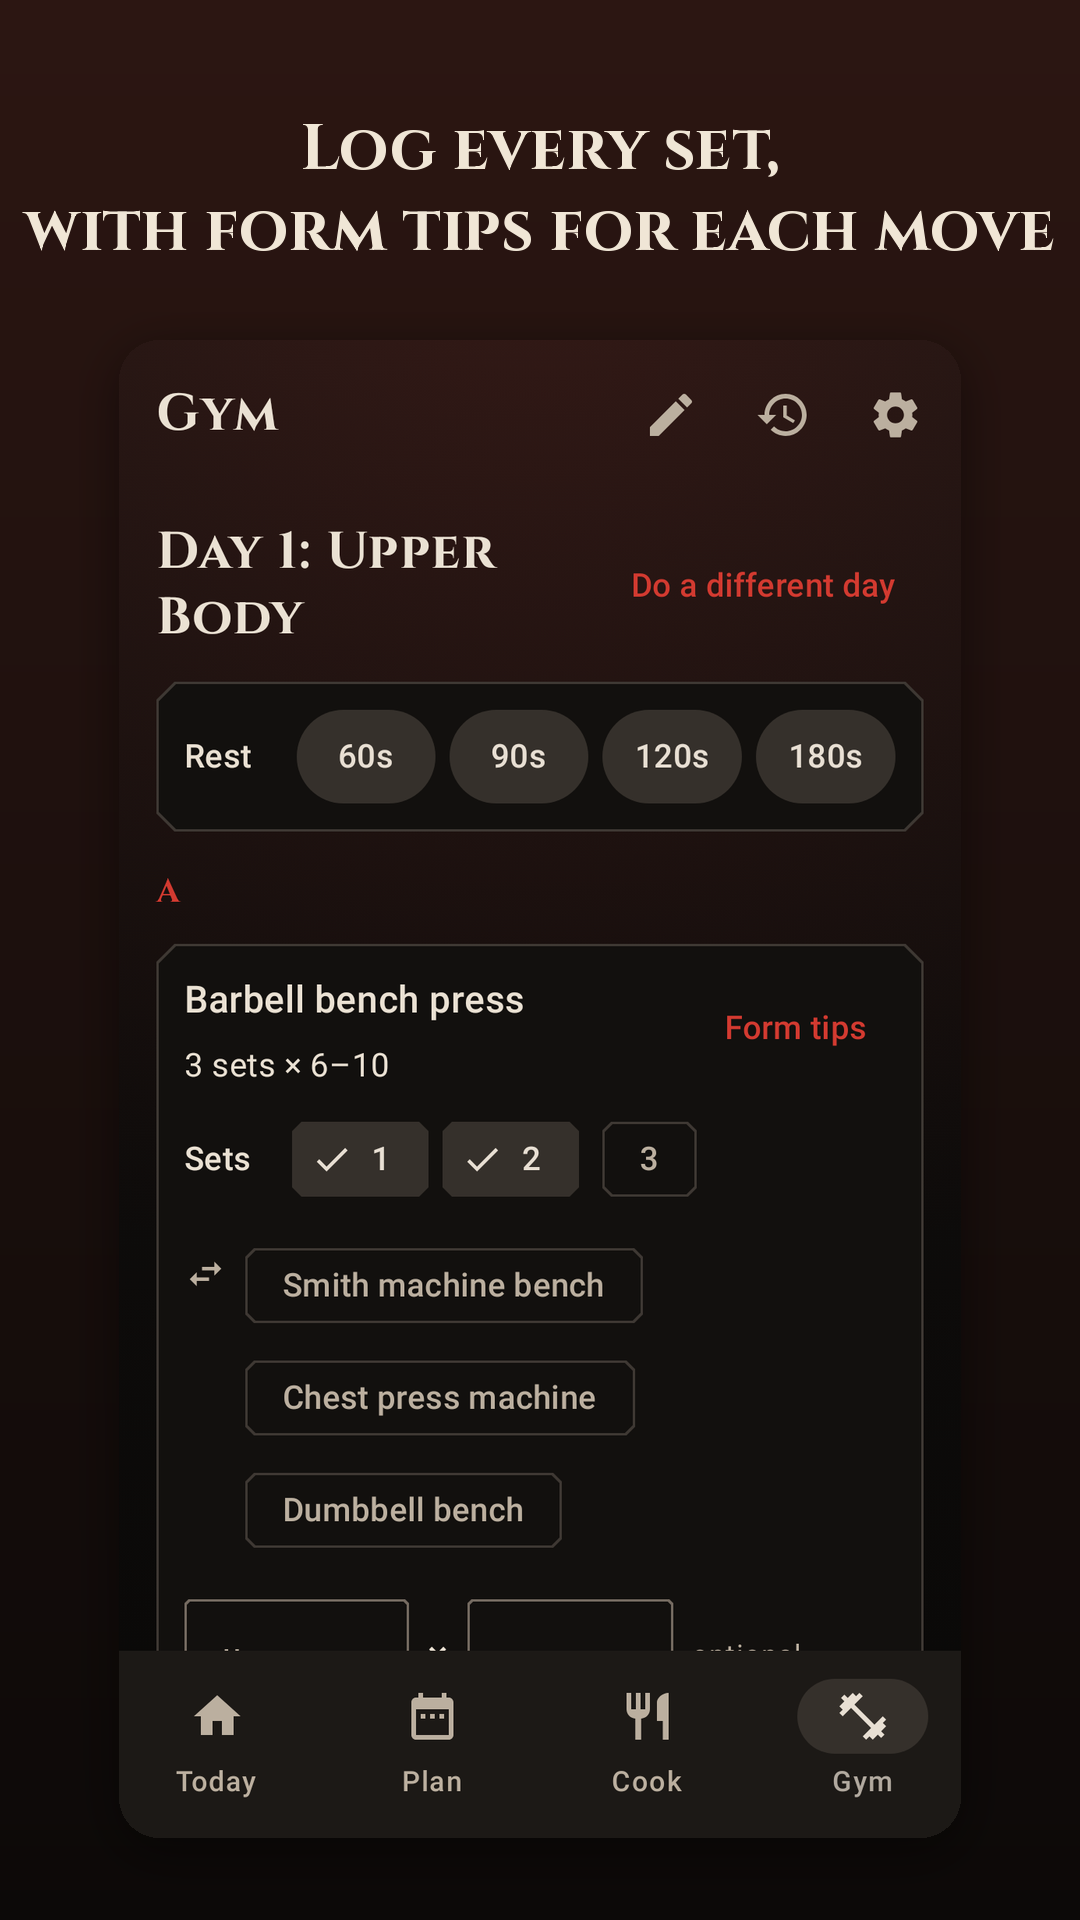
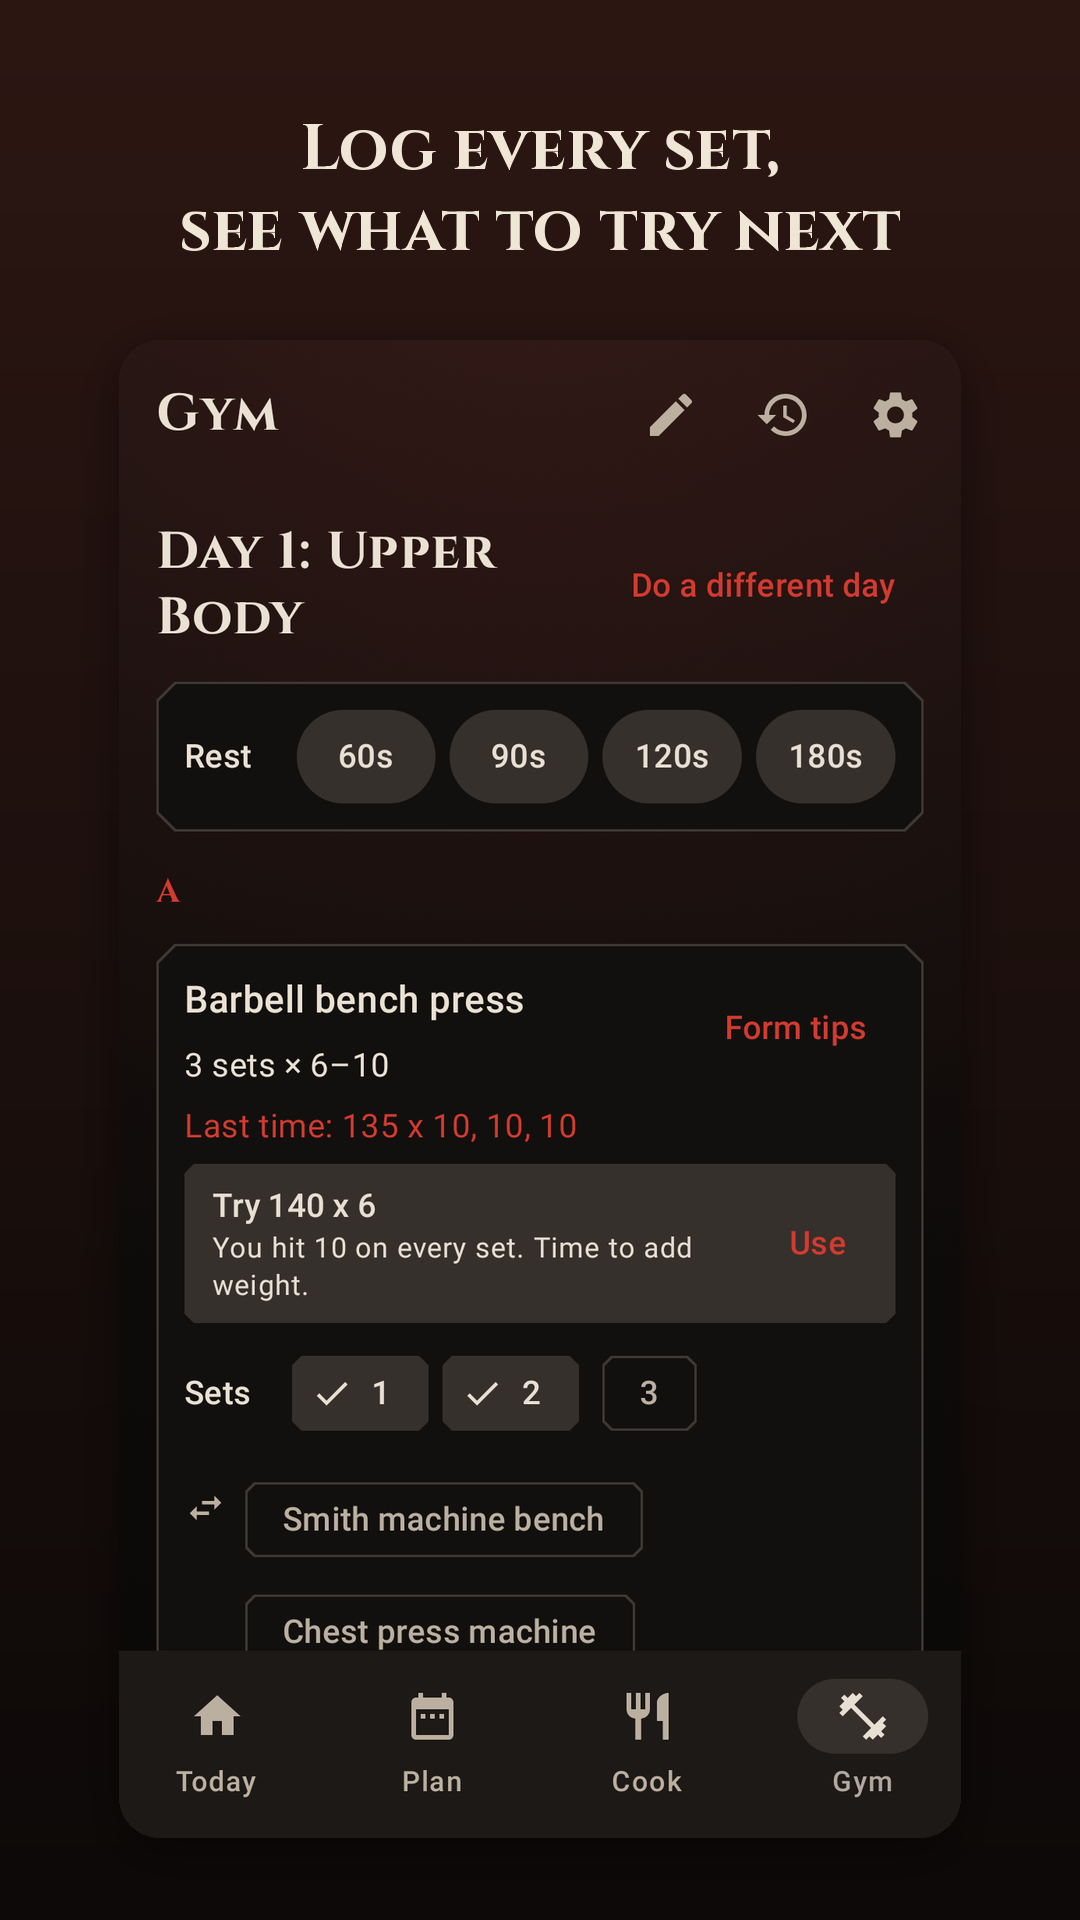
Docs and store kit for the depth features
- README: what version 6 adds, how each part works and what starts switched
  off in the personal edition.
- Play listing description rewritten around the plan that adds up, the cupboard
  loop, cooking timers and gym progress (3,910 of 4,000 characters).
- Listing screenshots regenerated; the gym one shows last time and what to try
  next.
- Store kit table, privacy policy and data safety notes mention what's newly
  stored on the phone (cook ratings, meals marked as eating out, sets).

Claude-Session: https://claude.ai/code/session_01AgEek7SaWWDv3g6qExxaFi

Changed region(s): [[0.1528, 0.5625, 0.8556, 0.875], [0.0306, 0.0938, 0.9778, 0.1562]]

diff --git a/app/src/testStore/java/com/personal/mealgym/ui/StoreListingScreenshots.kt b/app/src/testStore/java/com/personal/mealgym/ui/StoreListingScreenshots.kt
@@ -14,9 +14,13 @@ import com.github.takahirom.roborazzi.captureRoboImage
 import com.personal.mealgym.MainActivity
 import com.personal.mealgym.MealGymApp
 import com.personal.mealgym.Opening
+import com.personal.mealgym.data.db.Exercise
+import com.personal.mealgym.data.db.Feeling
 import com.personal.mealgym.data.db.MealSlot
 import com.personal.mealgym.data.db.Profile
+import com.personal.mealgym.data.db.SetLog
 import com.personal.mealgym.domain.Dates
+import com.personal.mealgym.domain.Progression
 import kotlinx.coroutines.flow.first
 import kotlinx.coroutines.runBlocking
 import kotlinx.coroutines.withTimeout
@@ -76,6 +80,19 @@ class StoreListingScreenshots {
                 meals.setSlot(sam, ws.plusDays(i.toLong()), MealSlot.DINNER, r.getValue(key).id)
             }
             container.settings.setShoppingBoth(alex, true)
+
+            // Last week Alex hit the top of the rep range on the first lift of every day, so whichever
+            // day today's screenshot lands on shows "Last time" and what to try next.
+            val days = container.db.workoutDao().getDays(alex)
+            val exercises = container.db.workoutDao().allExercises()
+            val logs = days.mapNotNull { day ->
+                exercises.filter { it.workoutDayId == day.id }.minWithOrNull(compareBy<Exercise> { it.groupLabel }.thenBy { it.position })
+            }.flatMap { first ->
+                val top = Progression.repRange(first.repsText)?.high ?: 10
+                (0 until 3).map { set -> SetLog(sessionId = 0, exerciseId = null, exerciseNameUsed = first.name, weight = 135.0, reps = top, setIndex = set) }
+            }
+            // Filed under the last day of the cycle, so today's workout is unchanged by it.
+            container.gym.saveSession(alex, today.minusDays(7), days.maxBy { it.dayOrder }, Feeling.GREAT, null, logs)
         }
     }
 

diff --git a/store-kit/privacy-policy.html b/store-kit/privacy-policy.html
@@ -36,7 +36,7 @@
 </ul>
 
 <h2>What you enter stays on your phone</h2>
-<p>Names you give each person, meal plans, recipes, shopping lists, what you tick in "My cupboard", workouts, weights and reps, sauna times and settings are stored only on your device. We do not run a server, and the app does not send this information to us or to anyone else.</p>
+<p>Names you give each person, meal plans (including meals you mark as eating out), recipes, what you cooked and how you rated it, shopping lists, what you tick in "My cupboard", workouts, weights and reps, sauna times and settings are stored only on your device. We do not run a server, and the app does not send this information to us or to anyone else.</p>
 <p>Some things leave your phone only when you choose: exporting a backup or a meal plan writes a file to a place you pick, and sharing a shopping list sends it to the app you pick. What happens to it then is up to you and that app. Two buttons, "Watch a demo" and "Check current nutrition", open a web search in your phone's browser for the name of an exercise or a restaurant. Nothing about you is added to the search, and what the browser and search provider do with it is covered by their own policies.</p>
 <p>Uninstalling the app, or clearing its storage in Android settings, deletes everything it stored. Backup files you exported are not affected.</p>
 

diff --git a/tools/store_graphics.py b/tools/store_graphics.py
@@ -24,7 +24,7 @@ SCREENS = [
     ("listing-2-plan", "Plan the week,\nor fill it in one tap", "iron"),
     ("listing-4-shopping", "One shopping list\nfor the whole household", "iron"),
     ("listing-3-recipe", "Recipes with real portions\nand protein swaps", "iron"),
-    ("listing-5-gym", "Log every set,\nwith form tips for each move", "iron"),
+    ("listing-5-gym", "Log every set,\nsee what to try next", "iron"),
     ("listing-6-glam-today", "15 looks,\nor design your own", "glam"),
 ]
 

diff --git a/store-kit/listing.md b/store-kit/listing.md
@@ -32,60 +32,51 @@ A PLAN BUILT FROM YOUR ANSWERS
 • Get an estimated daily calorie and protein guide, a workout plan for the gym or home, and a first week of meals sized to fit.
 • Allergies and foods you don't eat are kept off your plan and out of your suggestions.
 
-COOK FROM YOUR CUPBOARD
-• Tick what's in your fridge and cupboards and see what you can make right now.
-• Recipes that are nearly there show exactly what's missing, and one tap plans them.
+A WEEK THAT ADDS UP
+• Breakfast, lunch and dinner for each day, plus an optional snack. See what each planned day comes to beside your guide.
+• "Fill my week" plans the empty slots for you, aiming for your guide and favouring recipes you loved.
+• Not cooking? Mark a meal as eating out, leftovers or skipped. Having guests? Add servings and the shopping list follows.
+• Meal-prep recipes fill several days in one go. "Repeat last week" copies a week you liked.
 
 180 RECIPES FROM AROUND THE WORLD
 • Healthy, high-protein dishes from Asia, Africa, Europe, the Middle East, the Caribbean and the Americas, made with ordinary supermarket ingredients.
-• Vegetarian, fish and egg dishes alongside chicken, beef and pork, each with approximate calories and protein per serving.
+• Vegetarian, fish and egg dishes alongside chicken, beef and pork, each with approximate calories and protein.
+• Filter by protein or cuisine, mark favourites, add your own.
 
 WHEN YOU'RE CRAVING TAKEOUT
-• Pick from a dozen popular fast-food and coffee chains and see the better choices on the menu, with approximate calories and protein and tips for ordering.
+• See the better choices at a dozen popular fast-food and coffee chains, with approximate calories and protein and tips for ordering.
 • Or make it at home: lighter home versions of restaurant favorites, grilled or baked.
 
-PLAN THE WEEK
-• Breakfast, lunch and dinner for each day, plus an optional snack.
-• Pick from the recipe library or add your own.
-• "Fill my week" plans the empty slots for you from the recipes you like.
-• Meal-prep recipes fill several days in one go. "Repeat last week" copies a week you liked.
-• Filter by protein, cuisine or "Not chicken", mark favourites, and hide recipes for a while.
+SHOP, STOCK AND COOK
+• The shopping list builds itself from your plan, grouped by store section, with amounts added up across recipes.
+• What you tick off goes into your cupboard. Tick what's already in the house, and see what you can make right now and what to use up first.
+• Step-by-step cooking mode with big text, the screen kept on, and a timer for every time a step mentions.
+• Cook for more or fewer: the amounts scale. "Make it with..." swaps the main protein.
+• Say how it went when you've cooked it, and the app plans around your taste.
 
-SHOP ONCE
-• The shopping list builds itself from your plan, grouped by store section.
-• Amounts are added up across recipes and follow your portion size.
-• Tick off what you always have in the pantry and it stays off the list.
-• Share the list as text with anyone.
-
-COOK
-• Step-by-step cooking mode with big text, and the screen stays on.
-• "Make it with..." swaps the main protein, and the shopping list follows.
-
-TRAIN
+TRAIN AND PROGRESS
 • Starter plans: Full body 3 days, Upper / lower 4 days, Glute focus 3 days, or At home 3 days with no equipment. Or build your own.
-• Tick off sets, swap a machine when the gym is busy, and note weight and reps ("Last time: 135 x 8").
+• Log every set. Next time the app suggests what to try ("Try 140 x 8") from what you did and your plan's rep range.
+• New bests are called out, each exercise has its own trend, and the week shows your sets by muscle group.
 • A rest timer, written form tips for every exercise, and a quick "How did it go?" after each workout.
 • Missed a day? The plan just moves on to the next session. No streaks, no guilt.
 • A sauna timer that keeps running with the screen off.
 
 FOR THE WHOLE HOUSEHOLD
 • Everyone on the phone gets their own plan, gym days and history.
-• One shared shopping list covers everyone's meals.
-• Send your meal plan to another phone as a file.
+• One shared shopping list and cupboard cover everyone's meals.
 
 YOUR LOOK
-• 15 looks to choose from, from dark fantasy and Y2K glam to deep sea, cherry blossom, neon arcade and track day.
-• Or make your own: pick your colours, heading font, corners, day or night, and extras like sparkles.
-• Each person on the phone picks their own.
+• 15 looks to choose from, from dark fantasy and Y2K glam to deep sea, cherry blossom and neon arcade, or make your own.
 
 PRIVATE BY DESIGN
 • No account and no sign-in. Your answers, plans, workouts and history stay on your phone.
 • Export a backup file whenever you like.
-• No food logging, no weigh-ins and no streaks. The calorie guide is a guide, not a scoreboard.
+• No food logging, no weigh-ins and no streaks. Totals are for the meals you planned, and the guide is a guide, not a scoreboard.
 
 The free version shows a small banner on some screens (never during a workout or while cooking). A one-time "Remove ads" purchase turns them off for good.
 
-Meal & Gym is a planner, not medical, nutrition or fitness advice. Its calorie and protein guide is an estimate for healthy adults. Allergen information comes from ingredient names, so always check food labels. Restaurant figures are approximate and menus change, so check the restaurant's own nutrition and allergen information; the app is not affiliated with any restaurant. Check with a doctor before starting a new eating or training plan.
+Meal & Gym is a planner, not medical, nutrition or fitness advice. Its calorie and protein guide and its lifting suggestions are estimates for healthy adults. Allergen information comes from ingredient names, so always check food labels. Restaurant figures are approximate and menus change, so check the restaurant's own nutrition and allergen information; the app is not affiliated with any restaurant. Check with a doctor before starting a new eating or training plan.
 ```
 
 ## Other listing fields

diff --git a/README.md b/README.md
@@ -41,6 +41,17 @@ Settings > Look offers 15 ready-made looks and a creator for your own. Swag's da
 - **Foods to avoid on the restaurant pages**: a pick whose main ingredients include something the person avoids is marked and moved down, home versions with something they avoid are left out, and anyone avoiding an allergen sees a note to check the restaurant's own allergen guide. The app only knows main ingredients, never a restaurant's full allergen list, and it says so.
 - **Smaller changes**: search ignores accents ("golabki" finds "Gołąbki"); a "Make it with..." swap can carry its own amount ("2 cans chickpeas" in place of 1 1/2 lb chicken); the allergen detector knows more foods (baguette, za'atar, halloumi, orzo and others); "Show nutrition info" off also hides the restaurant figures.
 
+## Depth (version 6)
+
+Four parts of the app that used to stop short now go further. Database version 6 carries them (a set number on lifting notes, extra servings on a planned meal, and two new tables); nothing already stored is changed, and backups (format 4) include it all.
+
+- **A gym log that progresses.** Ticking a set keeps the weight and reps that are in the boxes as that set's own, so each set is logged as it was done; a note written after ticking is still saved as one note, as before. From the last time an exercise was logged and the plan's rep range the app suggests what to try next (`domain/Progression.kt`): stay at a weight until every set reaches the top of the range, then add the smallest sensible amount and start from the bottom; back off after a rough day or a set well short of the range; count reps for bodyweight moves; say nothing for holds and carries. A workout that beats the heaviest weight, or the most reps at it, is called out when saved. Gym > Lifting progress shows the week (workouts done, sets by muscle group), every logged exercise with its last and best, and a page per exercise with a trend line and every workout. Exercise names are sorted into muscle groups by `domain/Muscles.kt`; a test checks all 120 shipped names.
+- **A plan that adds up.** Each planned day shows what its meals come to at the person's portion size, beside their guide when they have one (`domain/DayTotals.kt`). It totals the plan, never what was eaten. A slot can be eating out (in your own words, or one of a chain's better picks, whose rough figures count), leftovers or a skip; these are left alone by Fill my week and never reach the shopping list. A planned meal can carry extra servings for guests, which the shopping list buys. For someone with a guide, Fill my week fills the week sixty ways under its usual rules and keeps the one that lands closest.
+- **Cooking mode that helps.** A step that mentions a time gets a timer button (`domain/StepTimers.kt`); a range starts at its shorter end. Several timers run at once and follow from step to step. They are for cooking with the app open: unlike the sauna timer there is no service keeping the phone awake. A recipe can be shown for half, one and a half, double or more of its servings; amounts follow and the steps keep their wording. "I cooked it" takes a rating (Loved it, It was fine, Not again) that Fill my week follows.
+- **Shopping, cupboard and cooking as one loop.** With "Keep it up to date" on, ticking the shopping list puts things in the cupboard with the day they went in, and "I cooked it" offers to take out what was used up (fresh food ticked, things that keep not). The cupboard's recipe list opens with "Use up first": fresh things that went in three or more days ago and the recipes that would use them.
+- **The personal edition** gets all of it, but the three things that change existing screens start switched off there: "Suggest what to lift next" and "Day totals" in Settings, and "Keep it up to date" on My cupboard. Everything else is a new button, chip or screen.
+- The app still has no table for body weight or for food eaten, and no streaks.
+
 ## Two editions
 
 The project builds two apps from the same code (Gradle product flavors):

diff --git a/store-kit/README.md b/store-kit/README.md
@@ -19,7 +19,10 @@ can create.
 | People | Swag and Ashley, built in | Anyone: a short questionnaire on first launch builds their plan; add more in Settings > People |
 | Plan builder | None (their plans are their own) | Daily calorie and protein guide, workout plan, meal sizes and a first week of meals from the setup answers; redo in Settings > My plan |
 | Allergies | Not asked | Nine allergens plus beef, pork and poultry kept off the plan; allergens listed on each recipe |
-| Cupboard | Cook > What can I make from my cupboard? | The same |
+| Cupboard | Cook > What can I make from my cupboard? Kept up to date from the shopping list and cooking once "Keep it up to date" is switched on there | The same, with "Keep it up to date" on from the start |
+| Gym progress | Each ticked set keeps its weight and reps; Gym > Lifting progress has the week, bests and a trend per exercise. "Suggest what to lift next" is a switch in Settings, off to begin with | The same, with suggestions on from the start |
+| Plan | Eating out, leftovers or a skip in any slot; servings for guests. "Day totals" is a switch in Settings, off to begin with | The same, with day totals beside the guide and "Fill my week" aiming for it |
+| Cooking | Step timers, servings scaling, "I cooked it" with a rating | The same |
 | Starter plans | Your own workout days | Full body 3 days, Upper / lower 4 days, Glute focus 3 days, At home 3 days, or empty |
 | Recipes | 186, including the coffee-shop orders and daily guide | 181 shared recipes and snacks from around the world |
 | Eating out | Cook > What are you craving? Better picks at 12 chains, and recipes that taste like them | The same |

diff --git a/store-kit/data-safety.md b/store-kit/data-safety.md
@@ -37,7 +37,7 @@ Mark each of these as **Collected** and **Shared**, **processed ephemerally: No*
 Leave every other type unticked. In particular, the app does **not** collect:
 
 - Personal info (names typed for each person stay on the phone)
-- Health and fitness (meal plans, workouts, sets, sauna times and the optional setup answers
+- Health and fitness (meal plans and their calorie and protein totals, workouts, sets with weight and reps, sauna times and the optional setup answers
   such as goal, sex, age, height, weight and allergies stay on the phone)
 
 Google's form counts data as "collected" only when it is sent off the device. The setup
